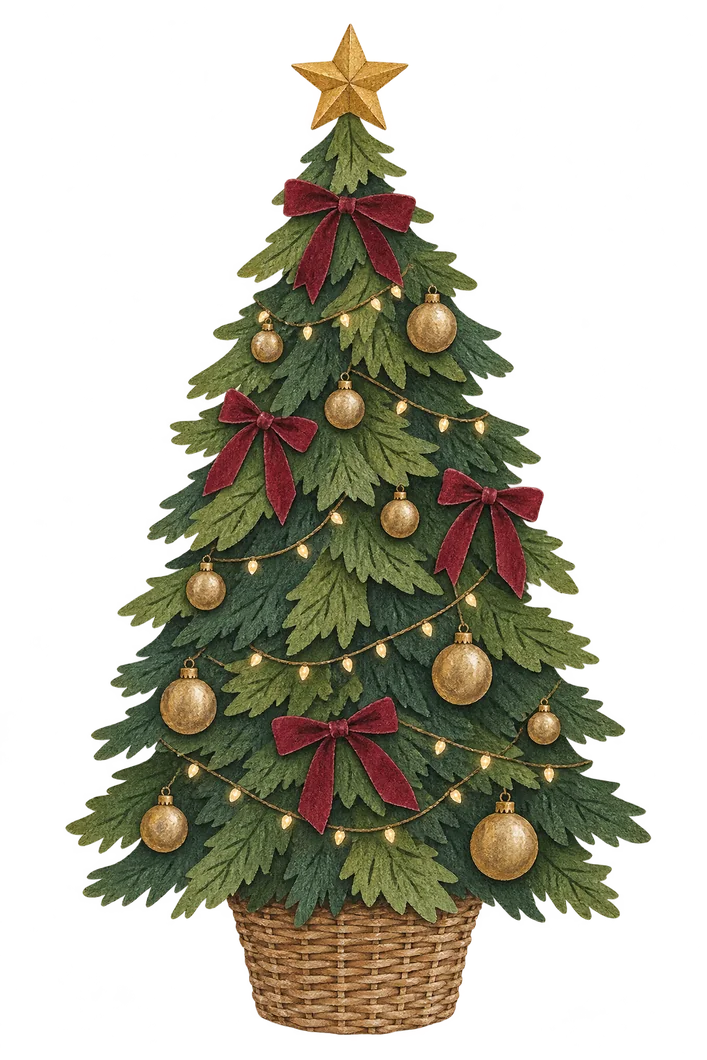
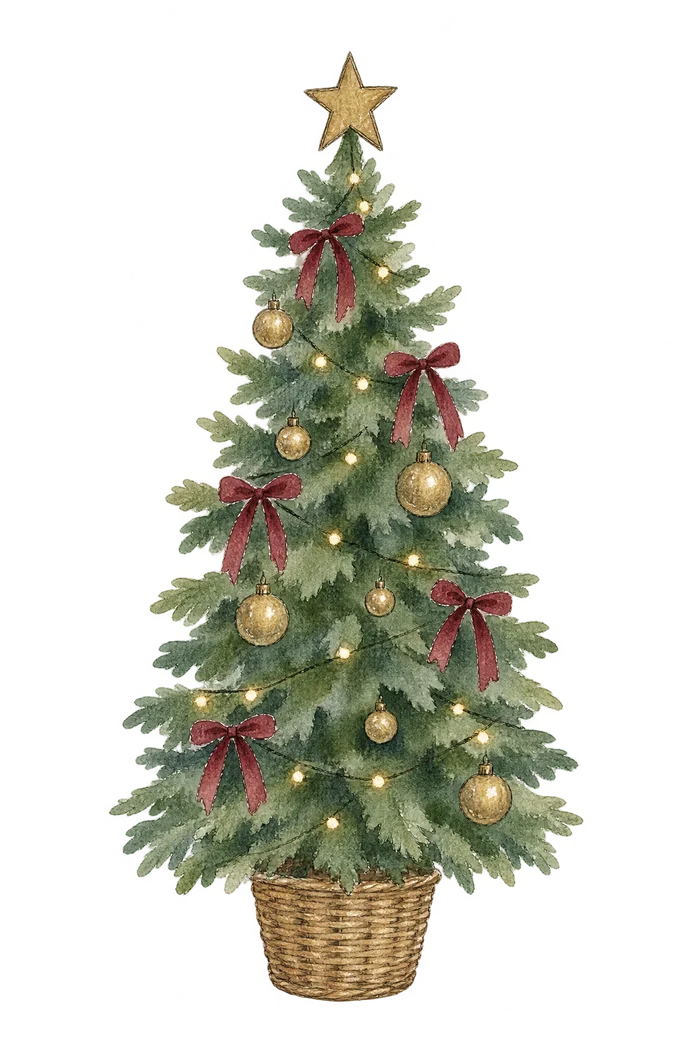
Repaint the opening in a loose watercolour style
New mansion front, lobby with the checkerboard floor, Christmas tree and
waiter; door position, zoom and timing retuned for the new artwork.

diff --git a/index.html b/index.html
@@ -246,27 +246,27 @@ h2.rv.in{animation:writeOn 1.5s cubic-bezier(.45,.05,.3,1) both}
 html.intro-lock,html.intro-lock body{overflow:hidden}
 #intro{position:fixed;inset:0;z-index:100;overflow:hidden;touch-action:none;overscroll-behavior:contain;transition:opacity .5s ease}
 #intro.gone{opacity:0;pointer-events:none}
-#intro .bg{position:absolute;inset:0;background:#131c33}
+#intro .bg{position:absolute;inset:0;background:#2e3f60}
 #intro .stage{position:absolute;left:50%;top:50%;width:1080px;height:1920px;transform:translate(-50%,-50%) scale(var(--k,.4))}
 #intro img{position:absolute;display:block;max-width:none;-webkit-user-drag:none;user-select:none}
 #intro .lobby{position:absolute;left:0;top:0;width:1080px;height:1920px;overflow:hidden;transform-origin:0 0;will-change:transform}
 #intro .world{position:absolute;left:0;top:0;width:2160px;height:1920px;will-change:transform}
 #intro .l-bg{left:0;top:0;width:2160px;height:1920px}
-#intro .l-tree{left:330px;top:662px;width:707px;height:1060px;filter:drop-shadow(10px 12px 0 rgba(70,25,15,.16))}
-#intro .l-waiter{left:0;top:0;width:629px;height:940px;transform-origin:50% 100%;will-change:transform;filter:drop-shadow(9px 10px 0 rgba(70,25,15,.16))}
-#intro .l-couple{position:absolute;left:1451px;top:981px;width:579px;height:769px;transform-origin:50% 100%;will-change:transform;filter:drop-shadow(8px 9px 0 rgba(70,25,15,.16))}
+#intro .l-tree{left:372px;top:712px;width:684px;height:1040px}
+#intro .l-waiter{left:0;top:0;width:621px;height:940px;transform-origin:50% 100%;will-change:transform}
+#intro .l-couple{position:absolute;width:579px;height:769px;transform-origin:50% 100%;will-change:transform}
 #intro .l-couple img{left:0;top:0;width:100%;height:100%}
-#intro .ext{position:absolute;left:0;top:0;width:1080px;height:1920px;transform-origin:540.5px 1268.5px;will-change:transform,opacity}
+#intro .ext{position:absolute;left:0;top:0;width:1080px;height:1920px;will-change:transform,opacity}
 #intro .e-facade{left:0;top:0;width:1080px;height:1920px}
-#intro .e-door{position:absolute;left:326px;top:847px;width:429px;height:843px;perspective:1500px}
-#intro .leaf{top:0;height:843px;will-change:transform}
-#intro .leaf.l{left:0;width:214px;transform-origin:0 50%}
-#intro .leaf.r{left:214px;width:215px;transform-origin:100% 50%}
+#intro .e-door{position:absolute;perspective:1500px}
+#intro .leaf{top:0;height:100%;will-change:transform}
+#intro .leaf.l{left:0;width:50%;transform-origin:0 50%}
+#intro .leaf.r{left:50%;width:50%;transform-origin:100% 50%}
 #intro .snow{position:absolute;inset:0;pointer-events:none;
   background-image:radial-gradient(circle,rgba(255,255,255,.95) 0 3px,transparent 4.5px),radial-gradient(circle,rgba(255,255,255,.8) 0 5px,transparent 6.5px),radial-gradient(circle,rgba(255,255,255,.7) 0 2.5px,transparent 4px);
   background-size:230px 290px,370px 410px,150px 190px;background-position:20px 0,160px 0,90px 0;animation:snowfall 9s linear infinite}
 @keyframes snowfall{to{background-position:60px 580px,120px 820px,150px 570px}}
-#intro .carry{left:0;top:0;width:470px;height:554px;transform-origin:0 0;opacity:0;will-change:transform,opacity;filter:drop-shadow(8px 9px 0 rgba(70,25,15,.14))}
+#intro .carry{left:0;top:0;width:470px;height:554px;transform-origin:0 0;opacity:0;will-change:transform,opacity}
 #intro .sparks{position:absolute;left:0;top:0;width:0;height:0;pointer-events:none}
 #intro .sparks i{position:absolute;left:-9px;top:-9px;width:18px;height:18px;border-radius:50%;background:radial-gradient(circle,#fff6d0 0 30%,#e9c46a 60%,rgba(233,196,106,0) 72%);opacity:0;will-change:transform,opacity}
 #intro .sparks i:nth-child(3n){background:radial-gradient(circle,#ffe3ea 0 30%,#b73051 62%,rgba(183,48,81,0) 74%)}
@@ -647,8 +647,9 @@ html.intro-lock,html.intro-lock body{overflow:hidden}
   function $(id){return document.getElementById(id)}
   var stage=$('stage'), lobby=$('lobby'), world=$('world'), ext=$('ext'), leafL=$('leafL'), leafR=$('leafR'),
       waiter=$('waiter'), couple=$('couple'), carry=$('carry'), sparks=$('sparks'), tree=$('tree'), lobbyBg=$('lobbyBg');
-  var DOOR={cx:540.5,cy:1268.5,s0:843/1920}, FLOOR=1750, COUPLE_X=1740, WAITER_STOP=1420, CW=470, CH=554;
-  var T={door:.95,zoom0:.5,zoom1:2.35,walk0:1.9,walk1:5.4,pan0:2.9,pan1:5.4,bow0:5.5,bow1:6.2,exit0:6.3,exit1:7.45,swap:7.35,land0:8.3,land1:9.5};
+  var DR={x:422.8,y:1150.3,w:228.8,h:431.3};   // where the double doors sit in the exterior artwork
+  var DOOR={cx:DR.x+DR.w/2,cy:DR.y+DR.h/2,s0:Math.max(DR.w/1080,DR.h/1920),k:Math.max(1080/DR.w,1920/DR.h)*1.3}, FLOOR=1772, COUPLE_X=1740, WAITER_STOP=1420, CW=470, CH=554;
+  var T={door:.95,zoom0:.5,zoom1:2.6,walk0:2.15,walk1:5.65,pan0:3.15,pan1:5.65,bow0:5.75,bow1:6.45,exit0:6.55,exit1:7.7,swap:7.6,land0:8.55,land1:9.75};
   var land=null, sparkEls=[];
   function c01(v){return v<0?0:v>1?1:v}
   function io3(p){p=c01(p);return p<.5?4*p*p*p:1-Math.pow(-2*p+2,3)/2}
@@ -664,10 +665,10 @@ html.intro-lock,html.intro-lock body{overflow:hidden}
     var d=82*out3(t/T.door);
     leafL.style.transform='rotateY('+d+'deg)'; leafR.style.transform='rotateY('+(-d)+'deg)';
     // push in through the doorway: the facade keeps growing after the lobby has filled the frame
-    var f=1+2.1*io3((t-T.zoom0)/(T.zoom1-T.zoom0)), s=Math.min(1,DOOR.s0*f), p=(s-DOOR.s0)/(1-DOOR.s0);
+    var f=Math.pow(DOOR.k,io3((t-T.zoom0)/(T.zoom1-T.zoom0))), s=Math.min(1,DOOR.s0*f), p=(s-DOOR.s0)/(1-DOOR.s0);
     var cy=DOOR.cy+(960-DOOR.cy)*p;
     lobby.style.transform='translate('+(540-540*s)+'px,'+(cy-960*s)+'px) scale('+s+')';
-    var eo=1-c01((f-1.9)/.8);
+    var eo=1-c01((DOOR.s0*f-.83)/.36);
     if(eo<=0){ext.style.display='none'} else {ext.style.display='';ext.style.opacity=eo;ext.style.transform='translate(0,'+(cy-DOOR.cy)+'px) scale('+f+')'}
     // camera follows the waiter across the lobby
     var cam=1080*io3((t-T.pan0)/(T.pan1-T.pan0));
@@ -679,9 +680,9 @@ html.intro-lock,html.intro-lock body{overflow:hidden}
     else{var q=c01((t-T.exit0)/(T.exit1-T.exit0));wx=WAITER_STOP+1150*q*q}
     var bob=moving?-Math.abs(Math.sin(wx/92))*13:0, tilt=moving?Math.sin(wx/92)*1.5:0;
     if(t>T.bow0&&t<T.bow1)tilt=7*Math.sin(Math.PI*(t-T.bow0)/(T.bow1-T.bow0));
-    waiter.style.transform='translate('+(wx-314)+'px,'+(FLOOR+6-940+bob)+'px) rotate('+tilt+'deg)';
+    waiter.style.transform='translate('+(wx-310)+'px,'+(FLOOR+6-940+bob)+'px) rotate('+tilt+'deg)';
     // the couple give two happy hops when he arrives
-    var hop=(t>5.65&&t<6.25)?-24*Math.abs(Math.sin(Math.PI*(t-5.65)/.3)):0;
+    var h0=T.bow0+.15, hop=(t>h0&&t<h0+.6)?-24*Math.abs(Math.sin(Math.PI*(t-h0)/.3)):0;
     var sw=c01((t-T.swap)/.16);
     couple.style.transform='translateY('+hop+'px) scale('+(1-.25*sw)+')'; couple.style.opacity=1-sw;
     // jump into the invitation pose
@@ -739,6 +740,9 @@ html.intro-lock,html.intro-lock body{overflow:hidden}
   else{
     document.documentElement.classList.add('intro-lock'); window.scrollTo(0,0);
     for(var i=0;i<16;i++){var sp=document.createElement('i');sparks.appendChild(sp);sparkEls.push({el:sp,th:i/16*Math.PI*2+(i%2)*.2,r:230+(i%4)*55,sz:.8+(i%3)*.45})}
+    var dEl=intro.querySelector('.e-door'); dEl.style.left=DR.x+'px'; dEl.style.top=DR.y+'px'; dEl.style.width=DR.w+'px'; dEl.style.height=DR.h+'px';
+    ext.style.transformOrigin=DOOR.cx+'px '+DOOR.cy+'px';
+    couple.style.left=(COUPLE_X-289.5)+'px'; couple.style.top=(FLOOR-769)+'px';
     fit(); window.addEventListener('resize',fit); frame(0);
     var imgs=[].slice.call(intro.querySelectorAll('img')), left=imgs.length;
     function ready(){if(isReady)return;isReady=true;intro.classList.add('ready');if(wantOpen)openEnv()}
